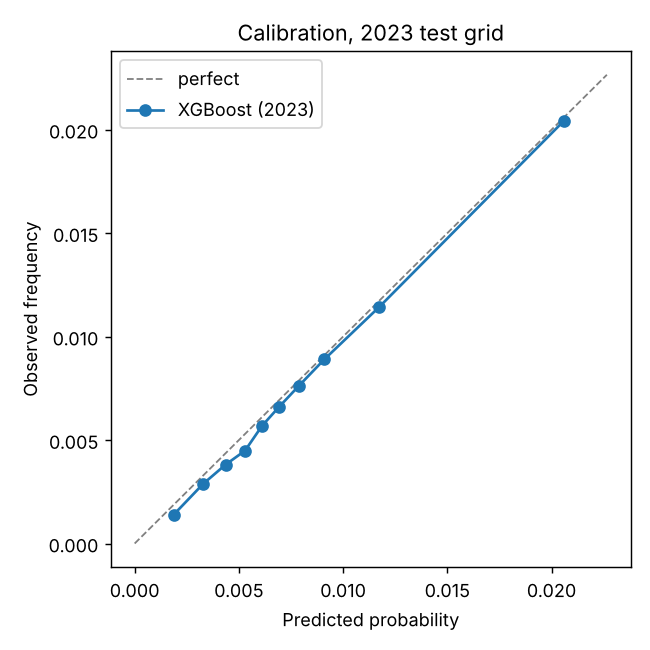
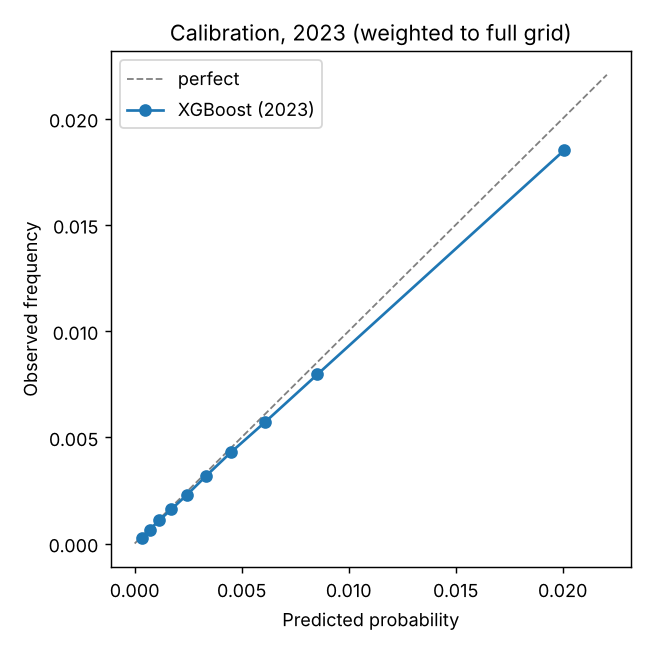
Update model eval

diff --git a/algorithm/notebooks/model_report.md b/algorithm/notebooks/model_report.md
@@ -1,66 +1,81 @@
 # SafeRoute crime-risk model: results
 
-Model: XGBoost classifier on H3 res-9 cell × clock-hour × date rows, USC area
-(116 cells, ~0.1 km² each). Target: at least one LAPD-reported incident in that
-cell during that hour. Reproduce with `python -m models.train_xgb`; numbers
-below come from `models/artifacts/metrics.json`.
+Model: XGBoost classifier on H3 res-9 cell × clock-hour × date rows, for the
+**10-mile circle around USC**. Target: at least one LAPD-reported incident in
+that cell during that hour. Reproduce with `python -m algorithm.models.train_xgb`.
+The numbers below come from `models/artifacts/metrics.json`. For the full
+walkthrough with plots, see `../explore_train_infer.ipynb`.
+
+## Area and data
+
+- 6,898 H3 cells lie within 10 miles. **3,432 are modelled**, meaning they had
+  at least 5 LAPD incidents in 2020–2022.
+- The other 3,466 cells are mostly other police jurisdictions (Inglewood,
+  Culver City, Beverly Hills, Vernon, LA County Sheriff areas). They are
+  reported as `no_data`, never as safe.
+- 647,921 incidents, 2020–2024. Training uses 2020-04 to 2022-12: 1.76M rows,
+  with 288k positives plus 5 sampled negatives per positive.
 
 ## Out-of-time evaluation
 
-Every metric is on the **full grid** for the year (every cell × hour × day, no
-negative sampling), using data the model never trained on.
+The full 2023 grid has about 30M cell-hours. Evaluation keeps every
+incident cell-hour plus 10 sampled negatives each, and weights the negatives
+by 1/sample rate. Every metric below is therefore a **full-grid estimate**.
 
-### 2023 test year (1,016,160 cell-hours, 7,438 with an incident, base rate 0.73%)
+### 2023 test year (30.1M cell-hours, 142,201 with an incident, base rate 0.47%)
 
 | Model | ROC-AUC | PR-AUC | Brier | Top-10% capture* |
 |---|---|---|---|---|
-| **XGBoost** | **0.686** | 0.0169 | **0.0072** | **27.9%** |
-| sklearn GradientBoostingClassifier | 0.669 | 0.0139 | 0.0094 | 24.0% |
-| Baseline: past-year count in cell at this hour ±1 | 0.674 | 0.0175 | n/a | 27.1% |
+| **XGBoost** | **0.786** | **0.0273** | 0.0047 | **41.5%** |
+| sklearn GradientBoostingClassifier | 0.783 | 0.0235 | 0.0047 | 40.9% |
+| Baseline: past-12-month count in cell at this hour ±1 | 0.772 | 0.0261 | n/a | 40.4% |
 
-\* Share of all incident cell-hours that fall in the 10% of cell-hours the model ranks riskiest.
+\* The share of all incident cell-hours that fall in the 10% of cell-hours the
+model ranks riskiest.
 
-Heatmap-level check: averaging predictions per (cell, hour of day) over 2023 and
-comparing with the observed incident count per slot gives a Spearman rank
-correlation of **0.69**.
+Heatmap-level check: summing predictions per (cell, hour of day) over 2023 and
+comparing them with observed counts gives a Spearman rank correlation of **0.72**.
 
-### 2024 extra check (1,018,944 cell-hours, base rate 0.47%)
+### 2024 extra check (30.1M cell-hours, base rate 0.25%)
 
 | Model | ROC-AUC | PR-AUC | Top-10% capture |
 |---|---|---|---|
-| **XGBoost** | **0.722** | **0.0144** | **32.0%** |
-| sklearn GradientBoostingClassifier | 0.676 | 0.0090 | 23.7% |
-| Baseline (past-year count) | 0.705 | 0.0129 | 31.3% |
+| **XGBoost** | **0.803** | **0.0202** | **47.0%** |
+| sklearn GradientBoostingClassifier | 0.796 | 0.0145 | 45.4% |
+| Baseline | 0.787 | 0.0194 | 44.7% |
 
-2024 has roughly half the reported volume after March because LAPD switched to
-NIBRS reporting, so its base rate is lower. The model still ranks well there,
-and it slightly over-predicts on average (0.61% predicted vs 0.47% observed).
+In 2024 the model over-predicts on average (0.38% predicted vs 0.25%
+observed). This is expected: the 2024 drop is LAPD's NIBRS reporting change,
+not less crime.
 
-## What this means
+## What changed vs the USC-only model
 
-- Predicting whether a crime is reported in one 175 m hex in one specific hour
-  is very noisy. PR-AUC is about 2.3× the base rate, and that is realistic for
-  this granularity.
-- XGBoost beats sklearn's GradientBoosting on every metric. It ranks about as
-  well as a strong "same place, same hour, last year" heuristic, and adds three
-  things the heuristic can't: **calibrated probabilities**, **per-score SHAP
-  explanations**, and a place to plug in new signals (streetlights, weather,
-  foot traffic).
-- Calibration on 2023 is close to the diagonal across all ten deciles (see
-  `calibration.png`). Predicted 0.19% → observed 0.14%, predicted 2.06% → observed 2.04%.
+- AUC rose from 0.69 to 0.79, because the area now runs from quiet residential
+  blocks to downtown and Hollywood. Ranking across very different places is
+  easier than ranking within a few blocks of campus.
+- XGBoost still beats sklearn's GradientBoosting and the past-year baseline on
+  every metric.
+- Calibration on 2023 stays close to the diagonal across all deciles. For
+  example, a predicted 0.04% came out as 0.03% observed, and a predicted 2.01%
+  came out as 1.85% observed.
 
-## Feature importance (mean |SHAP|, log-odds, 2023 sample)
+## Feature importance (mean |SHAP|, log-odds, 2023 grid-weighted sample)
 
 ![SHAP summary](shap_summary.png)
 
-1. `hour`: late afternoon through night raises risk, early morning lowers it
-2. `cell_rate_all`: long-run incident rate in the cell
-3. `cell_hourband_rate_all`: long-run rate in the cell at this hour ±1
-4. `cell_90d`: recent 90-day count
-5. `area_7d`: area-wide activity last week (also absorbs reporting-volume drift)
+1. `cell_rate_all`: the cell's long-run incident rate
+2. `hour`: time of day
+3. `cell_90d`: the cell's count over the last 90 days
+4. `cell_hourband_rate_all`: the cell's long-run rate at this hour ±1
+5. `cell_30d`, `cell_hourband_365d`, `cell_7d`: recent counts
 
-`is_dark` ranks low because `hour` already carries most of the light/dark
-signal. The blue-light phone distance uses **placeholder** coordinates (see
-README), so read its SHAP value with that in mind.
+## Caveats
+
+- **Saturation:** `risk` is a percentile over the whole 10-mile area, so busy
+  areas such as downtown, Hollywood and Koreatown sit at or near 1.0 all day.
+  To compare blocks inside a busy area, use `prob`, or a percentile
+  computed only over the route's neighbourhood.
+- Blue-light phone coordinates are still **placeholders**, so ignore
+  `dist_bluelight_m` until the real ones are loaded.
 
 ![Calibration](calibration.png)
